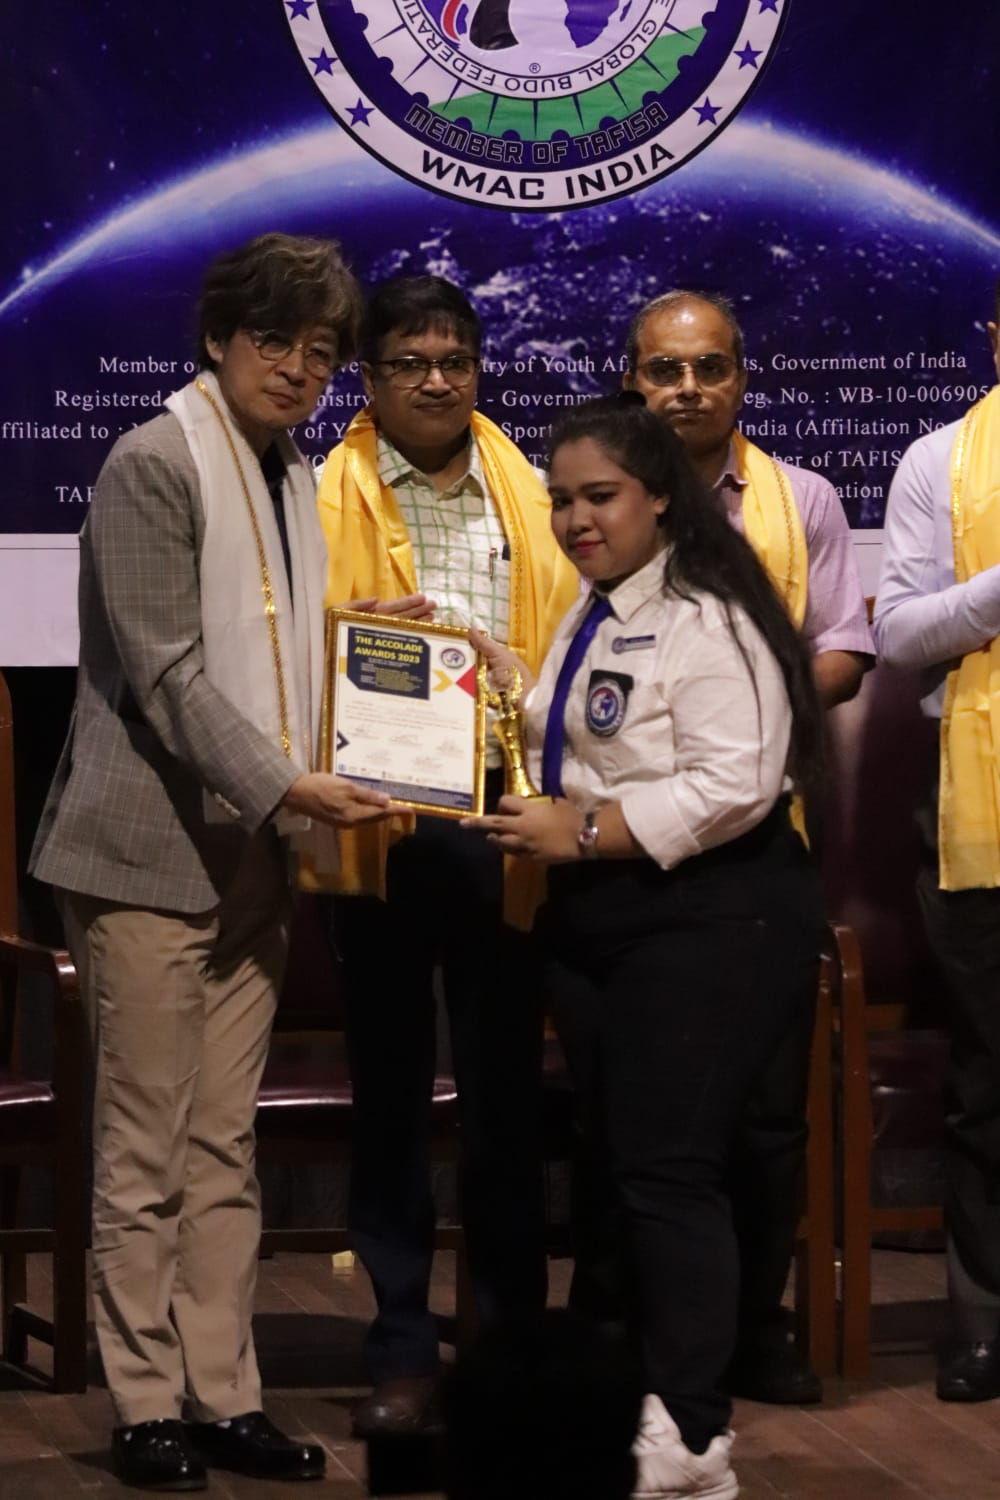
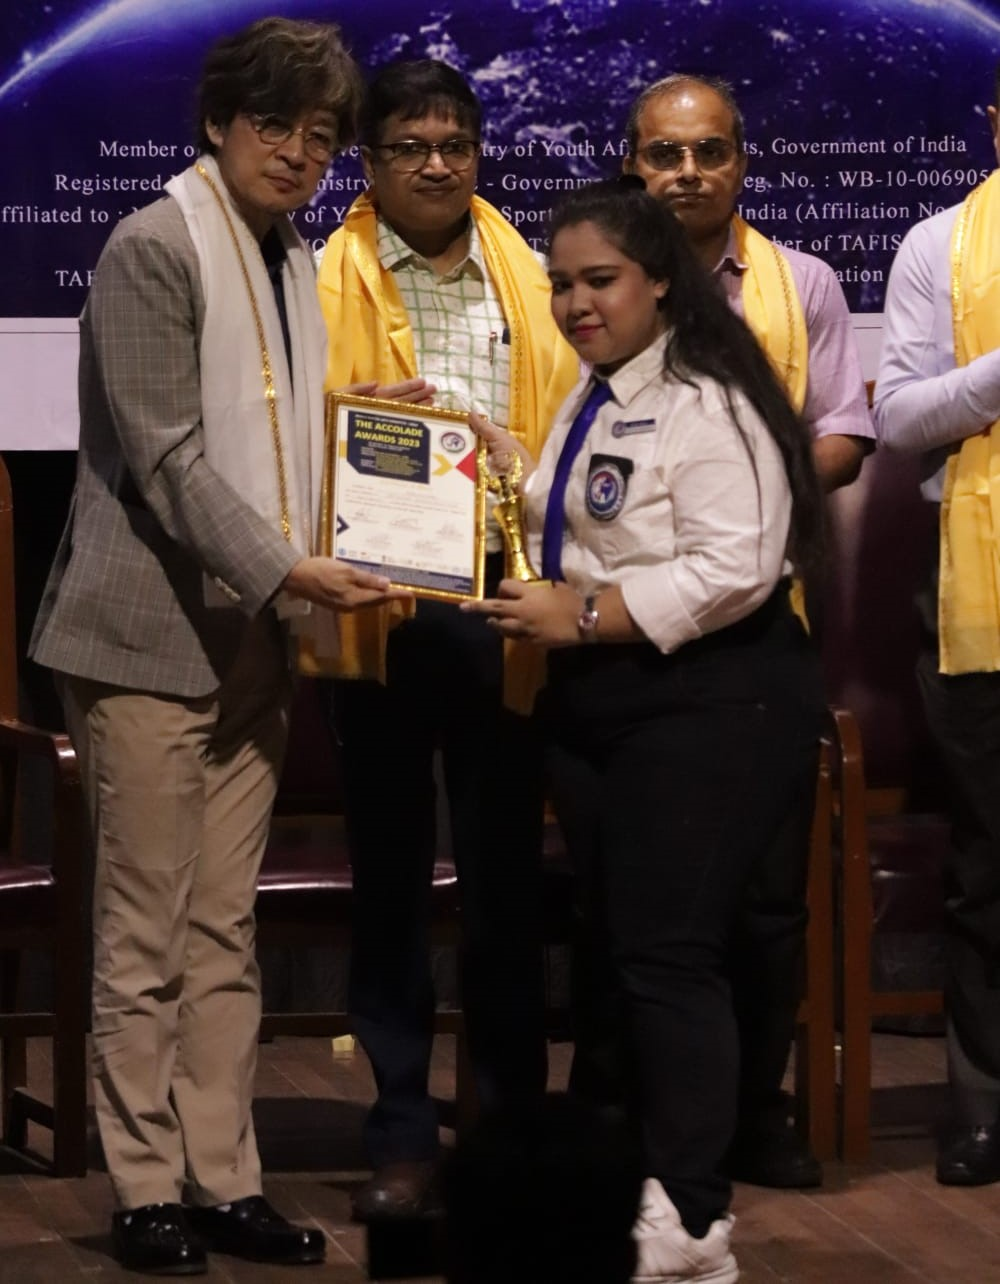
FInal Update

diff --git a/public/gallery.html b/public/gallery.html
@@ -478,7 +478,7 @@ Shrayam
                 </div>
                 <div class="flex lg:w-1/2 md:w-1/2 w-full flex-wrap">
                     <div class="w-full p-1 md:p-2">
-                        <img alt="gallery" class="block lg:h-64 h-auto w-full rounded-lg object-cover object-center"
+                        <img alt="gallery" class="block lg:h-64 h-auto w-full rounded-lg object-cover object-top"
                             src="./assets/gallery/right/36.JPG" />
                     </div>
                 </div>
@@ -496,7 +496,7 @@ Shrayam
                 </div>
             </div>
             <!-- Martial Artists -->
-            
+
         </div>
 
         </div>
